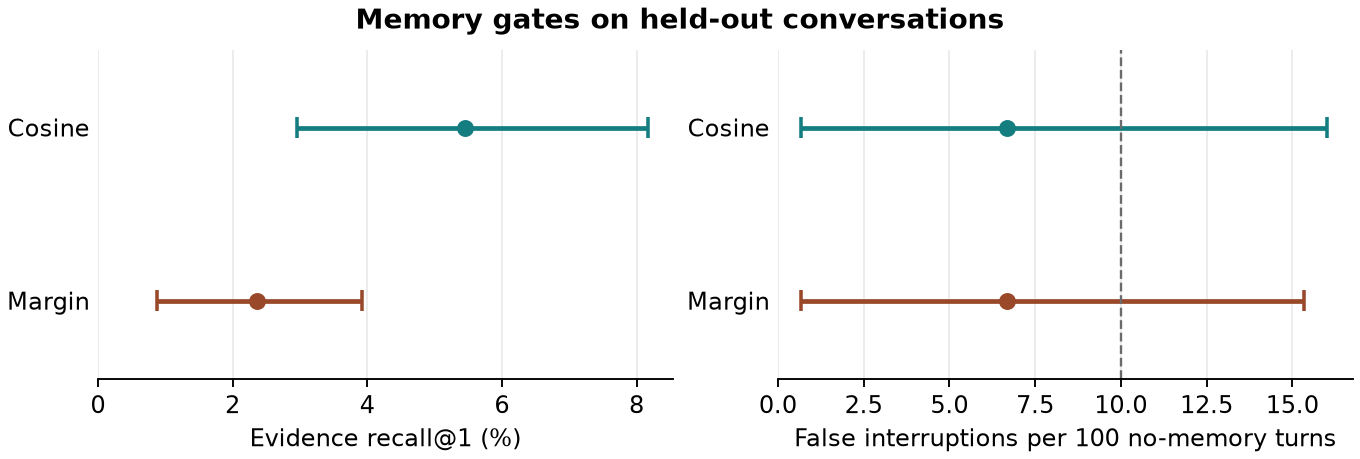
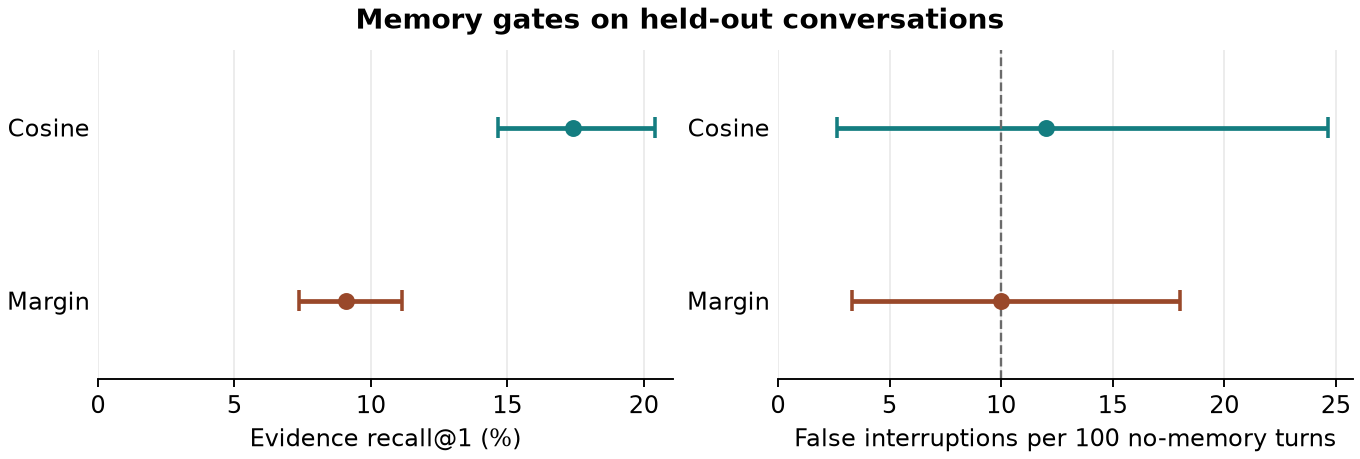
Include speaker names in memories; update results

diff --git a/test_evaluate.py b/test_evaluate.py
@@ -17,7 +17,7 @@ class EvaluationTest(unittest.TestCase):
     def test_only_resolved_single_evidence_is_positive(self):
         row = {
             "conversation": {
-                "session_1": [{"dia_id": "a", "text": "First"}, {"dia_id": "b", "text": "Second"}],
+                "session_1": [{"dia_id": "a", "speaker": "Ann", "text": "First"}, {"dia_id": "b", "speaker": "Ann", "text": "Second"}],
                 "session_1_date_time": "Monday",
             },
             "qa": [
@@ -28,7 +28,7 @@ class EvaluationTest(unittest.TestCase):
                 {"category": 5, "question": "Adversarial?", "evidence": ["a"]},
             ],
         }
-        self.assertEqual(conversation_data(row), ({"a": "First", "b": "Second"}, [("Valid?", "a")]))
+        self.assertEqual(conversation_data(row), ({"a": "Ann: First", "b": "Ann: Second"}, [("Valid?", "a")]))
 
     def test_rank_uses_same_winner_for_both_scores(self):
         winners, scores = rank(np.array([[.3, .7, .4], [.8, .8, .6]]))

diff --git a/evaluate.py b/evaluate.py
@@ -62,7 +62,7 @@ def split_conversations(rows):
 
 def conversation_data(row):
     memories = {
-        turn["dia_id"]: turn["text"]
+        turn["dia_id"]: f'{turn["speaker"]}: {turn["text"]}'
         for name, session in row["conversation"].items()
         if name.startswith("session_") and isinstance(session, list)
         for turn in session

diff --git a/README.md b/README.md
@@ -6,10 +6,12 @@ A local benchmark for deciding whether to surface one retrieved memory. This is 
 
 | Gate | Threshold | Evidence recall@1 (95% CI) | False interruptions per 100 no-memory turns (95% CI) |
 | --- | ---: | ---: | ---: |
-| Top cosine | 0.550 | 5.44% [2.96, 8.17] (30/551) | 6.67 [0.67, 16.00] (10/150) |
-| Top-1 minus top-2 cosine | 0.097 | 2.36% [0.87, 3.93] (13/551) | 6.67 [0.67, 15.33] (10/150) |
+| Top cosine | 0.455 | 17.42% [14.66, 20.42] (96/551) | 12.00 [2.67, 24.67] (18/150) |
+| Top-1 minus top-2 cosine | 0.060 | 9.07% [7.36, 11.14] (50/551) | 10.00 [3.33, 18.00] (15/150) |
 
-Margin lost 3.09 percentage points of recall (paired 95% CI for margin minus cosine: [-4.60, -1.82]). Both gates interrupted 10 times, with no observed reduction for margin (paired difference per 100: 0.00 [-10.00, 11.33]). Ungated retrieval found the exact evidence turn for 58/551 queries (10.53%).
+Margin lost 8.35 percentage points of recall (paired 95% CI for margin minus cosine: [-10.02, -6.53]). The difference in false interruptions was small and uncertain (-2.00 per 100, [-14.00, 8.67]). Cosine went over the calibration budget of 10 on held-out data. Ungated retrieval found the exact evidence turn for 96/551 queries (17.42%), so retrieval limits both gates, and the cosine gate kept every correct hit.
+
+Memories are embedded as `speaker: text`. A first version left out the speaker name and scored 10.53% ungated, 5.44% with cosine and 2.36% with margin. The ordering of the gates was the same.
 
 ![Held-out evidence recall and false interruptions with 95% bootstrap intervals](results.png)
 
